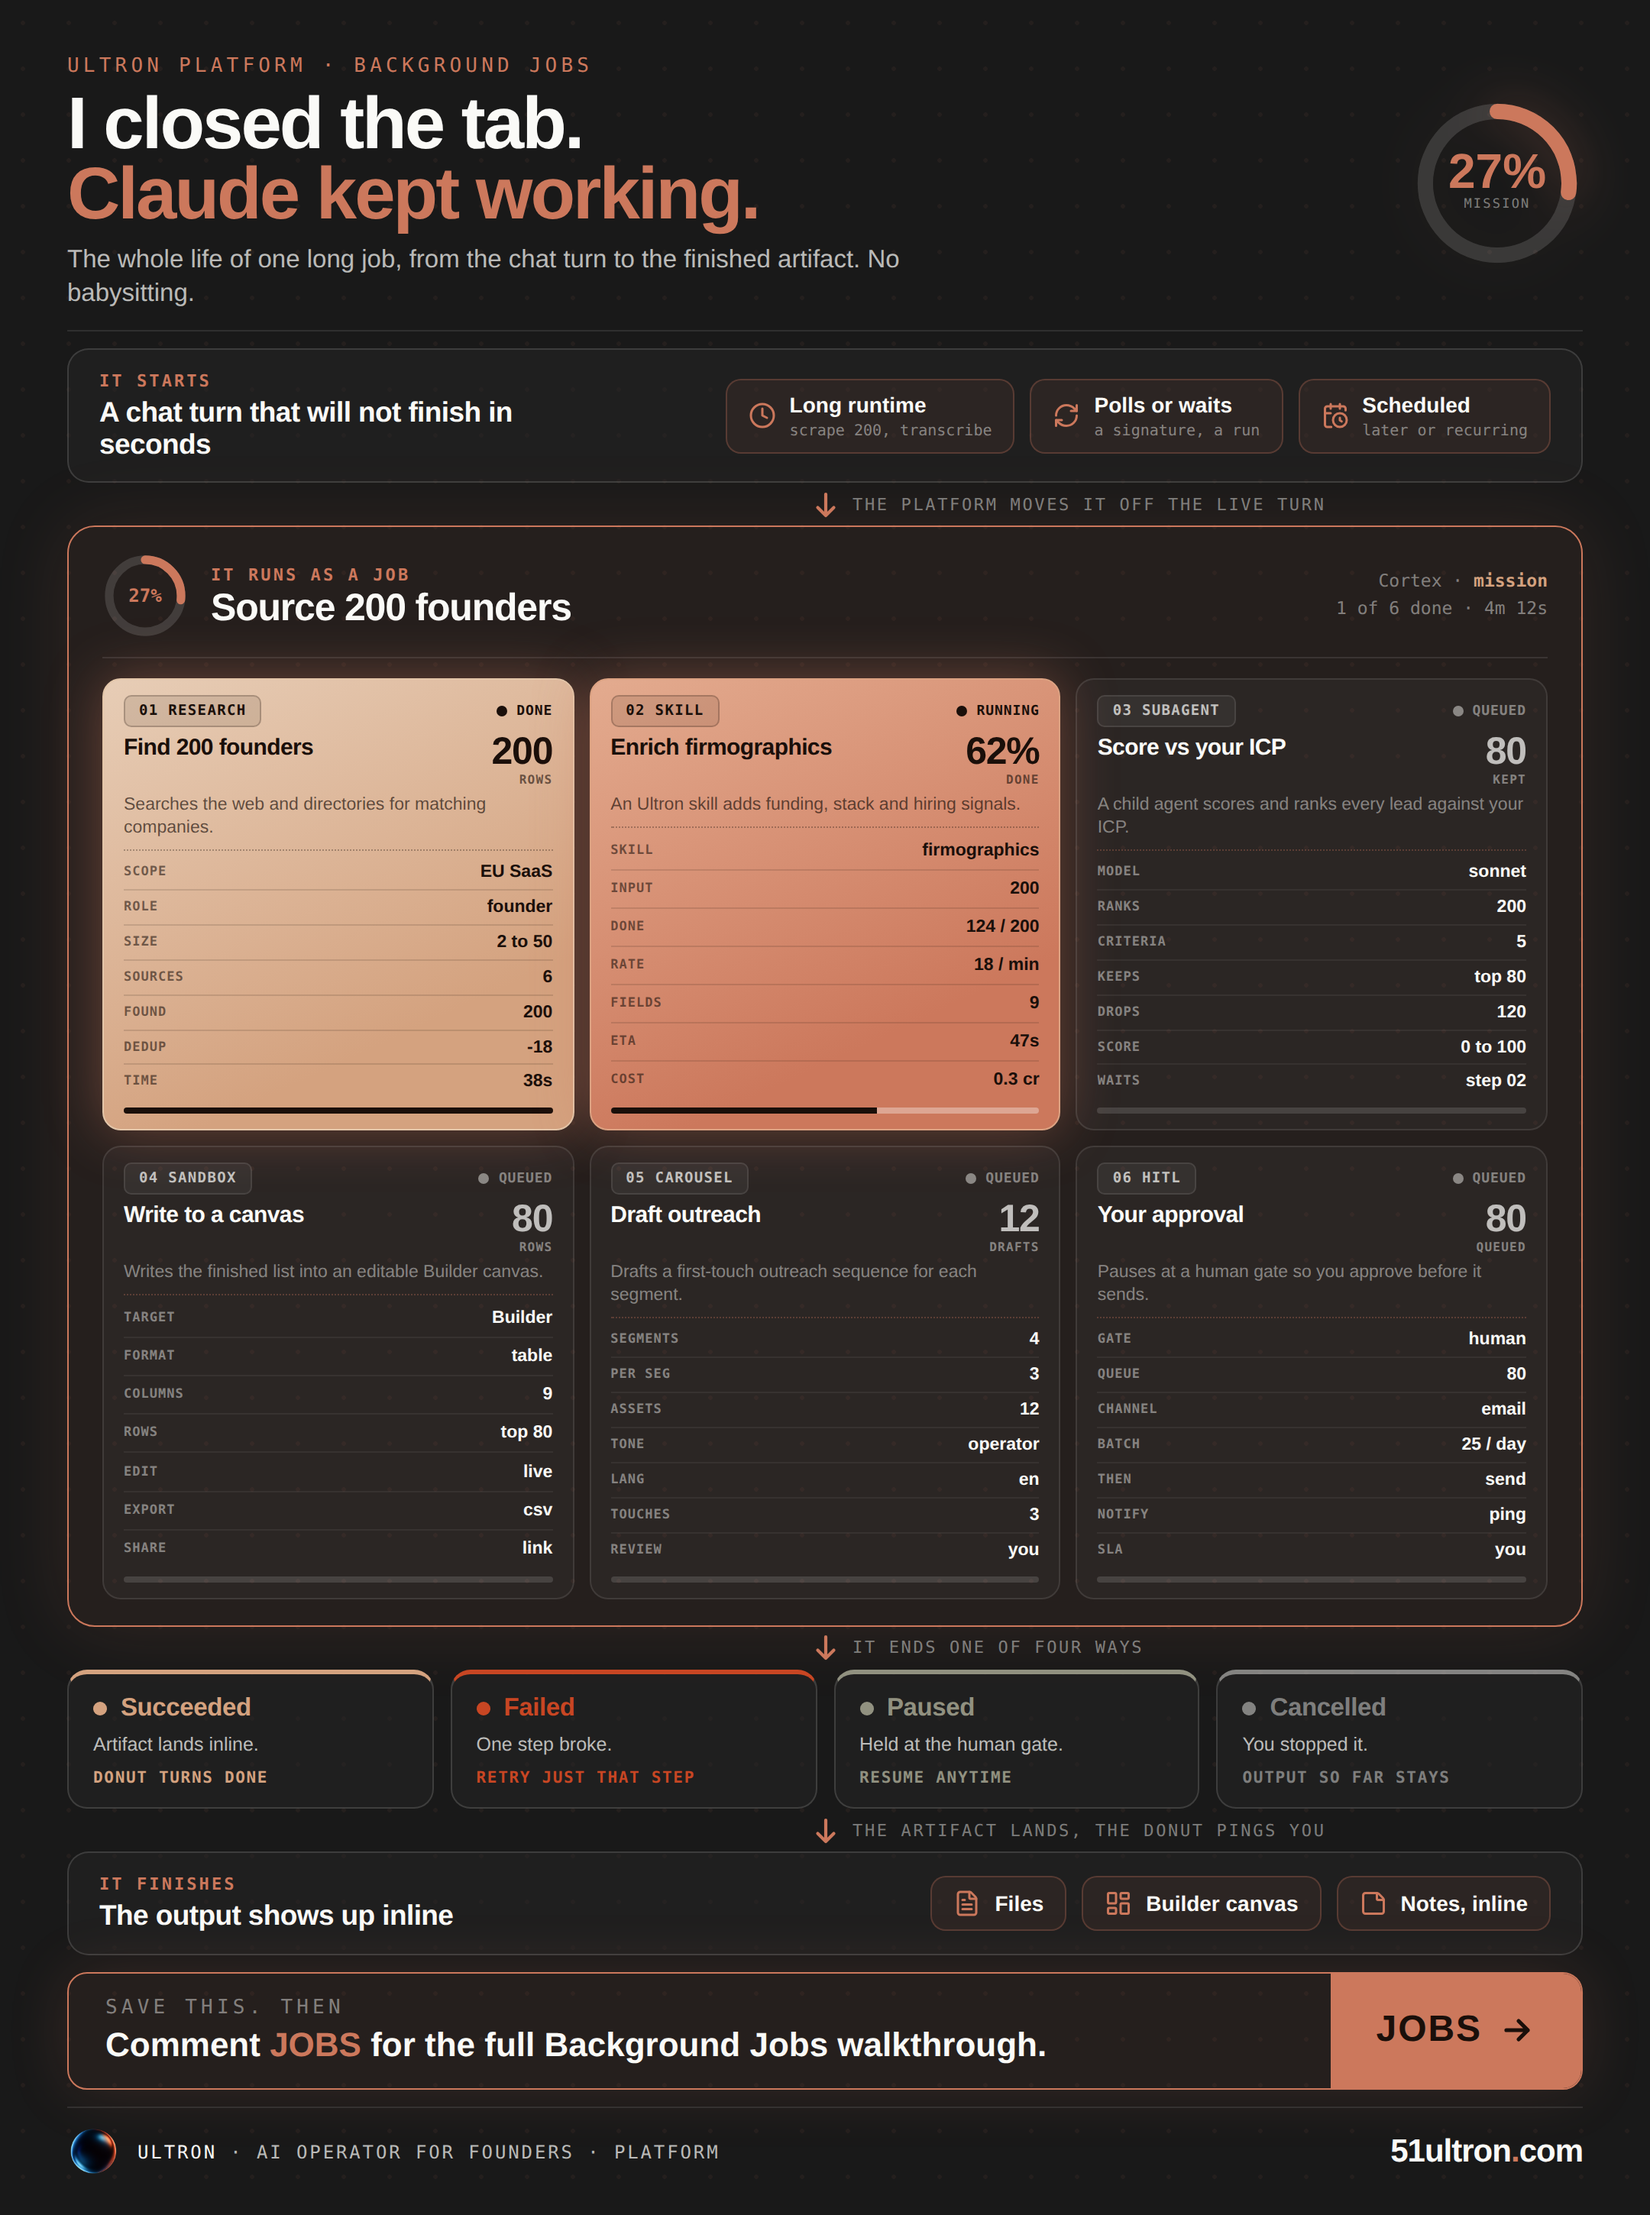
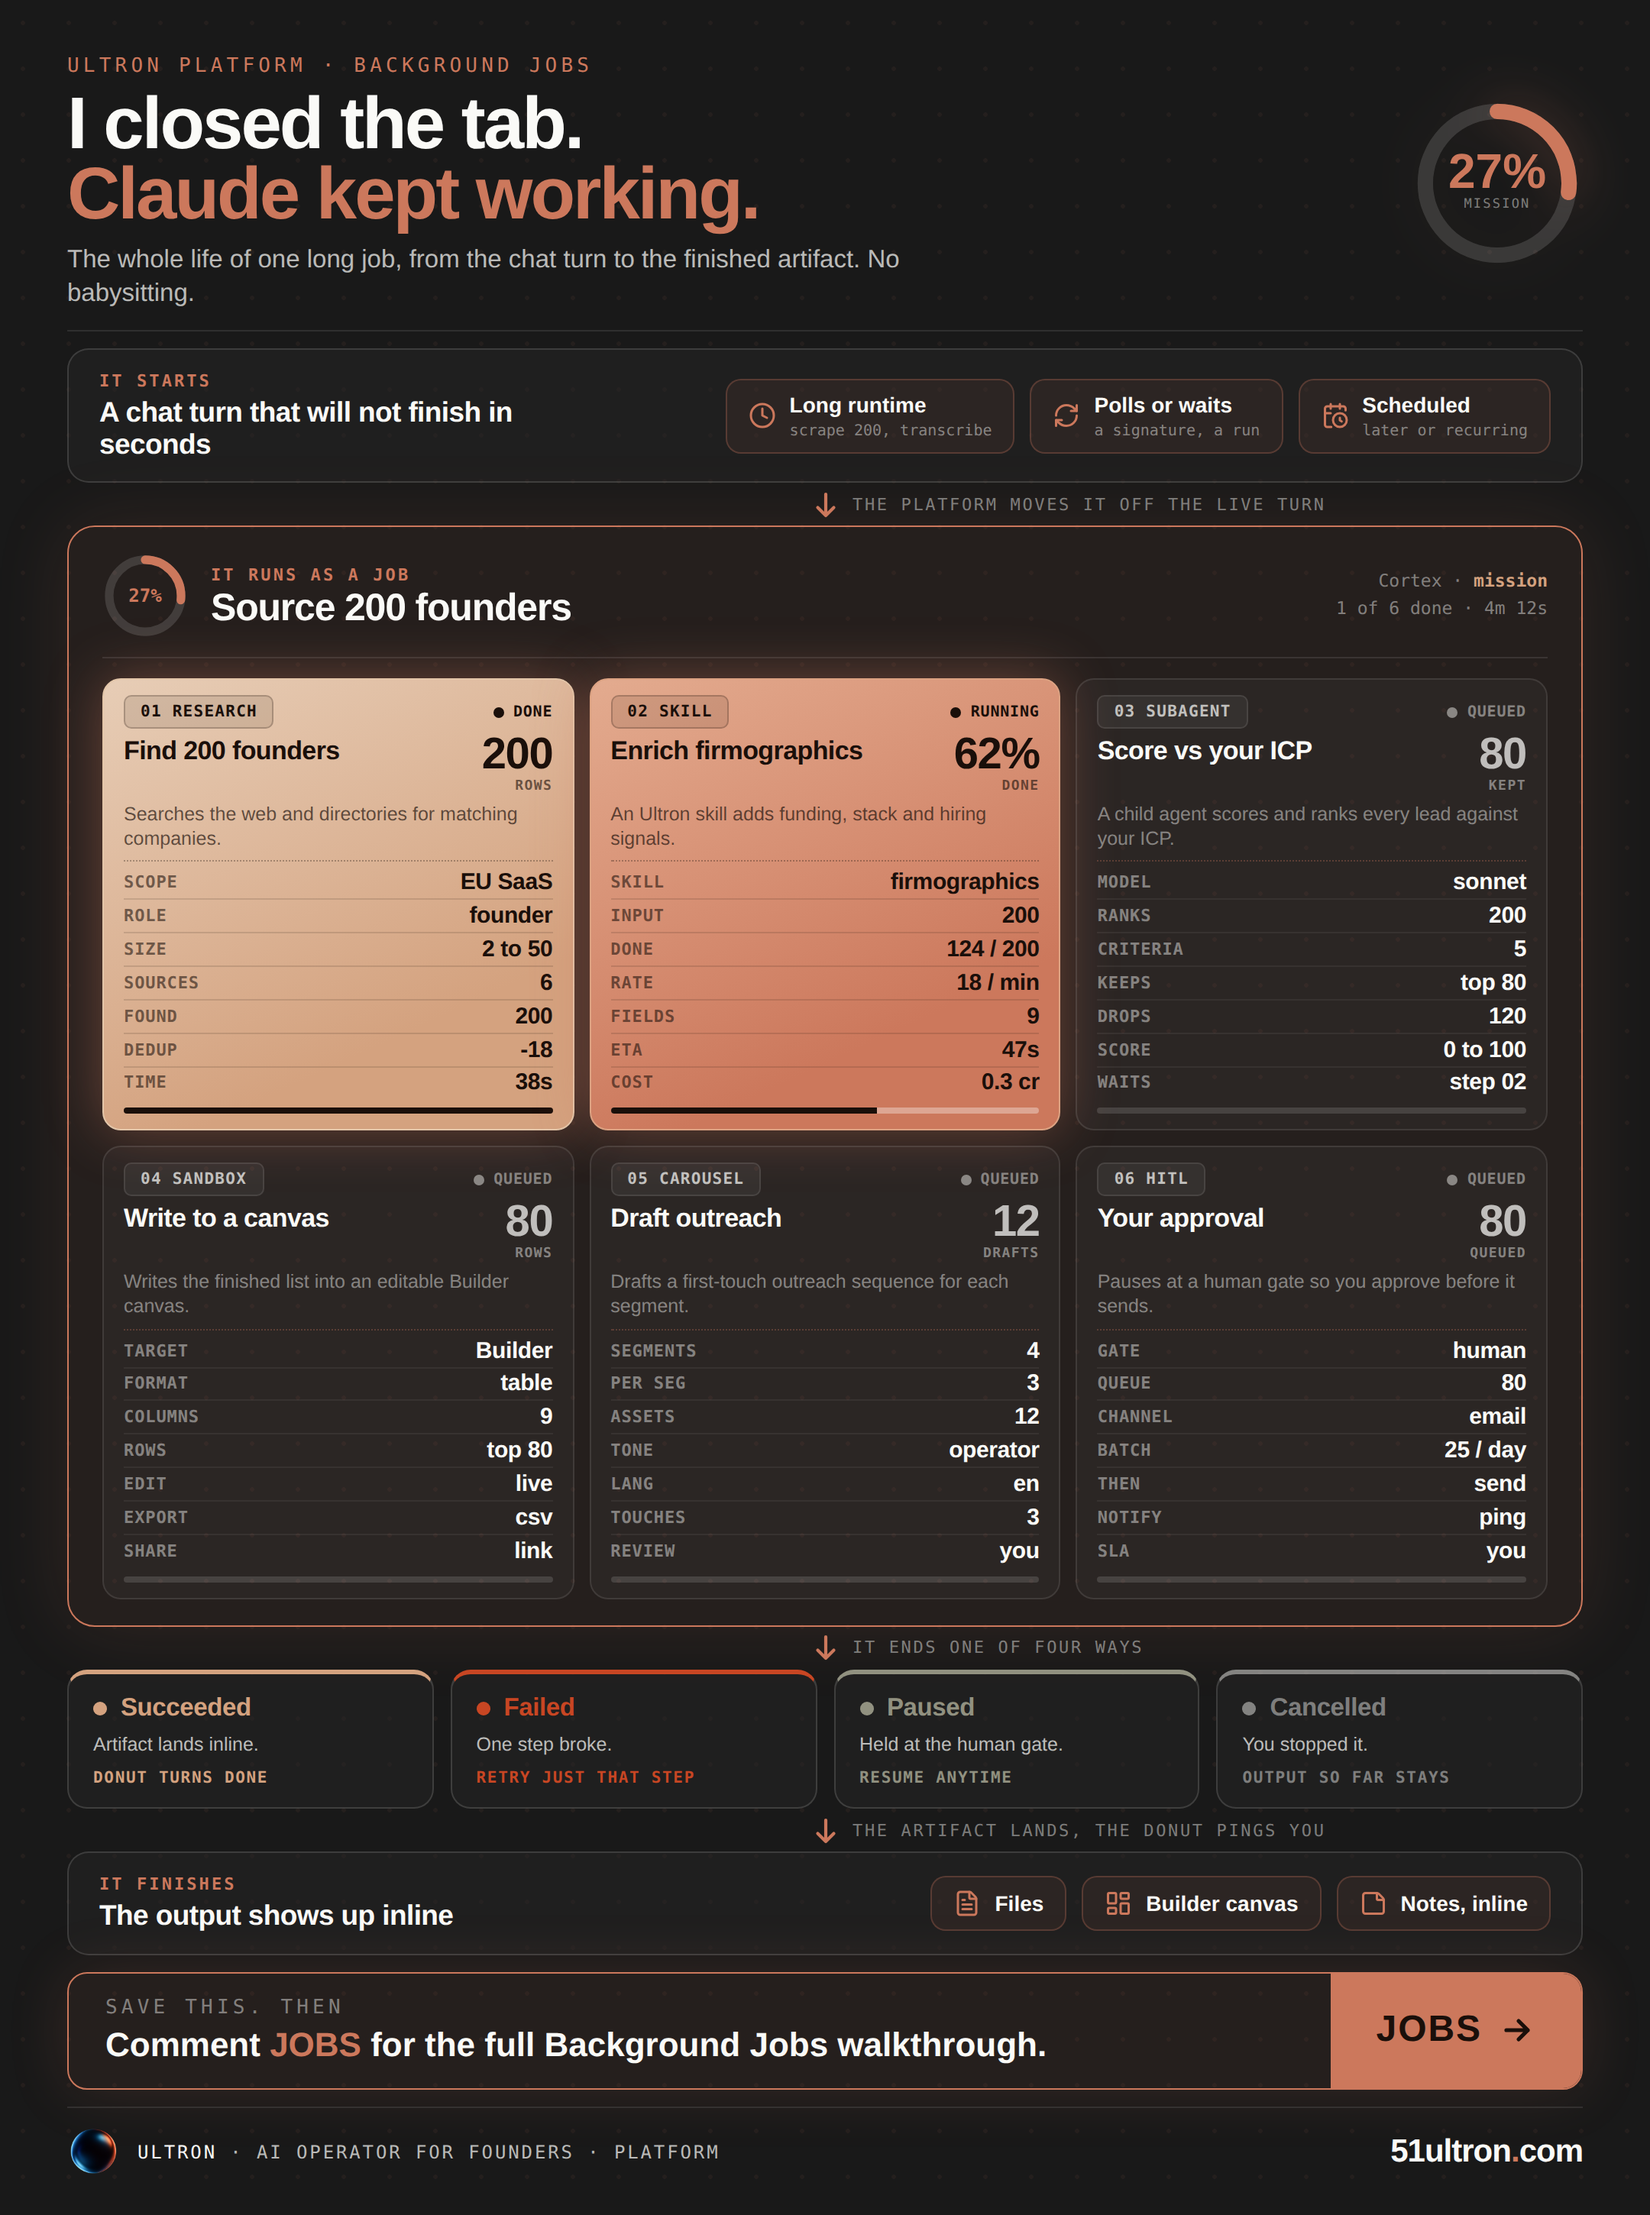
docs-05 Background Jobs LinkedIn: bigger card fonts for a fuller look
Operator: the cards read empty because the row text was small and floating.
Increased the data-row fonts (label 8.5 to 11px, value 11.5 to 15px bold), and
bumped the title, big number, kind chip and description. The seven rows now fill
their height with weighty text, so each card reads full. No overflow, 1450px.

https://claude.ai/code/session_018fS7xMwDiJUxoNS3zo3BKw

diff --git a/content/docs-05-jobs-linkedin-journey.html b/content/docs-05-jobs-linkedin-journey.html
@@ -52,25 +52,25 @@ body{background:#0d0d0d;display:flex;justify-content:center;padding:24px 0;font-
 .fcard.solid .fr .rv{color:#1a0f0a;}
 .fcard.solid .fbar{background:rgba(255,255,255,.34);}
 .fct{display:flex;align-items:center;justify-content:space-between;margin-bottom:5px;}
-.fk{font-family:'DM Mono',monospace;font-size:9.5px;font-weight:600;letter-spacing:.07em;color:var(--ink70);background:rgba(250,250,247,.05);border:1px solid var(--rule);padding:4px 9px;border-radius:5px;}
-.fs{display:flex;align-items:center;gap:6px;font-family:'DM Mono',monospace;font-size:9px;font-weight:600;letter-spacing:.05em;text-transform:uppercase;}
+.fk{font-family:'DM Mono',monospace;font-size:10.5px;font-weight:600;letter-spacing:.06em;color:var(--ink70);background:rgba(250,250,247,.05);border:1px solid var(--rule);padding:4px 10px;border-radius:5px;}
+.fs{display:flex;align-items:center;gap:6px;font-family:'DM Mono',monospace;font-size:10px;font-weight:600;letter-spacing:.04em;text-transform:uppercase;}
 .fs .d{width:7px;height:7px;border-radius:50%;flex-shrink:0;}
 .fs.done{color:var(--kraft);}.fs.done .d{background:var(--kraft);}
 .fs.run{color:var(--book);}.fs.run .d{background:var(--book);box-shadow:0 0 8px var(--book);}
 .fs.q{color:var(--ink46);}.fs.q .d{background:var(--ink46);}
 .ftop{display:flex;justify-content:space-between;align-items:flex-start;margin-top:1px;gap:8px;}
-.ftt{font-size:15px;font-weight:800;letter-spacing:-.3px;color:var(--ivory);line-height:1.06;flex:1;}
+.ftt{font-size:17px;font-weight:800;letter-spacing:-.3px;color:var(--ivory);line-height:1.05;flex:1;}
 .fnumw{text-align:right;flex-shrink:0;}
-.fnum{font-size:25px;font-weight:900;line-height:.82;letter-spacing:-.6px;}
-.funit{font-family:'DM Mono',monospace;font-size:8px;font-weight:600;letter-spacing:.08em;text-transform:uppercase;color:var(--ink46);margin-top:3px;}
-.fdesc{font-size:11.5px;font-weight:500;color:var(--ink46);line-height:1.32;margin-top:5px;}
+.fnum{font-size:29px;font-weight:900;line-height:.82;letter-spacing:-.7px;}
+.funit{font-family:'DM Mono',monospace;font-size:9px;font-weight:600;letter-spacing:.08em;text-transform:uppercase;color:var(--ink46);margin-top:3px;}
+.fdesc{font-size:12.5px;font-weight:500;color:var(--ink46);line-height:1.3;margin-top:5px;}
 .fbar{height:4px;border-radius:2px;background:var(--ink14);overflow:hidden;margin-top:6px;}
 .fbar i{display:block;height:100%;}
 .fr{flex:1;margin-top:6px;display:flex;flex-direction:column;border-top:1px dotted rgba(204,120,92,.3);padding-top:3px;}
 .fr .row{flex:1;display:flex;justify-content:space-between;align-items:center;gap:8px;border-bottom:1px solid rgba(250,250,247,.06);}
 .fr .row:last-child{border-bottom:none;}
-.fr .rk{font-family:'DM Mono',monospace;font-size:8.5px;font-weight:600;letter-spacing:.06em;text-transform:uppercase;color:var(--ink46);white-space:nowrap;}
-.fr .rv{font-size:11.5px;font-weight:700;color:var(--ivory);text-align:right;}
+.fr .rk{font-family:'DM Mono',monospace;font-size:11px;font-weight:600;letter-spacing:.04em;text-transform:uppercase;color:var(--ink46);white-space:nowrap;}
+.fr .rv{font-size:15px;font-weight:800;color:var(--ivory);text-align:right;letter-spacing:-.2px;}
 .branch{flex-shrink:0;display:grid;grid-template-columns:repeat(4,1fr);gap:11px;}
 .oc{background:rgba(38,38,37,.5);border:1px solid var(--ink14);border-top:3px solid var(--c);border-radius:13px;padding:13px 16px;}
 .oc .on{display:flex;align-items:center;gap:9px;font-weight:800;font-size:16.5px;letter-spacing:-.2px;color:var(--c);margin-bottom:6px;}
